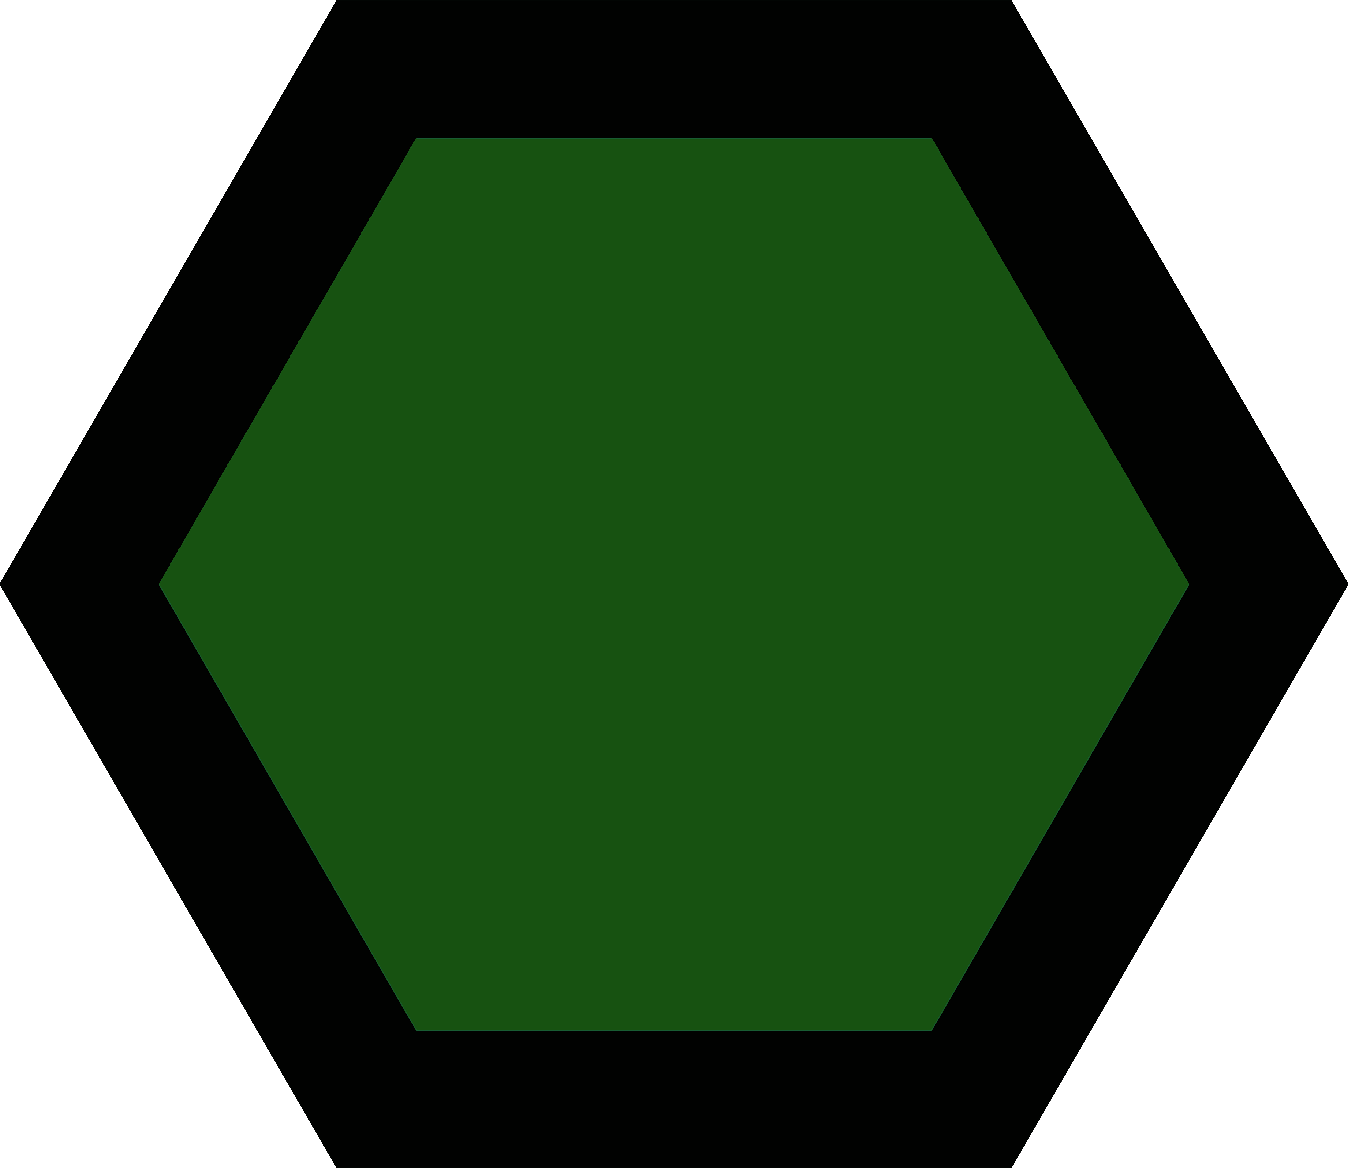
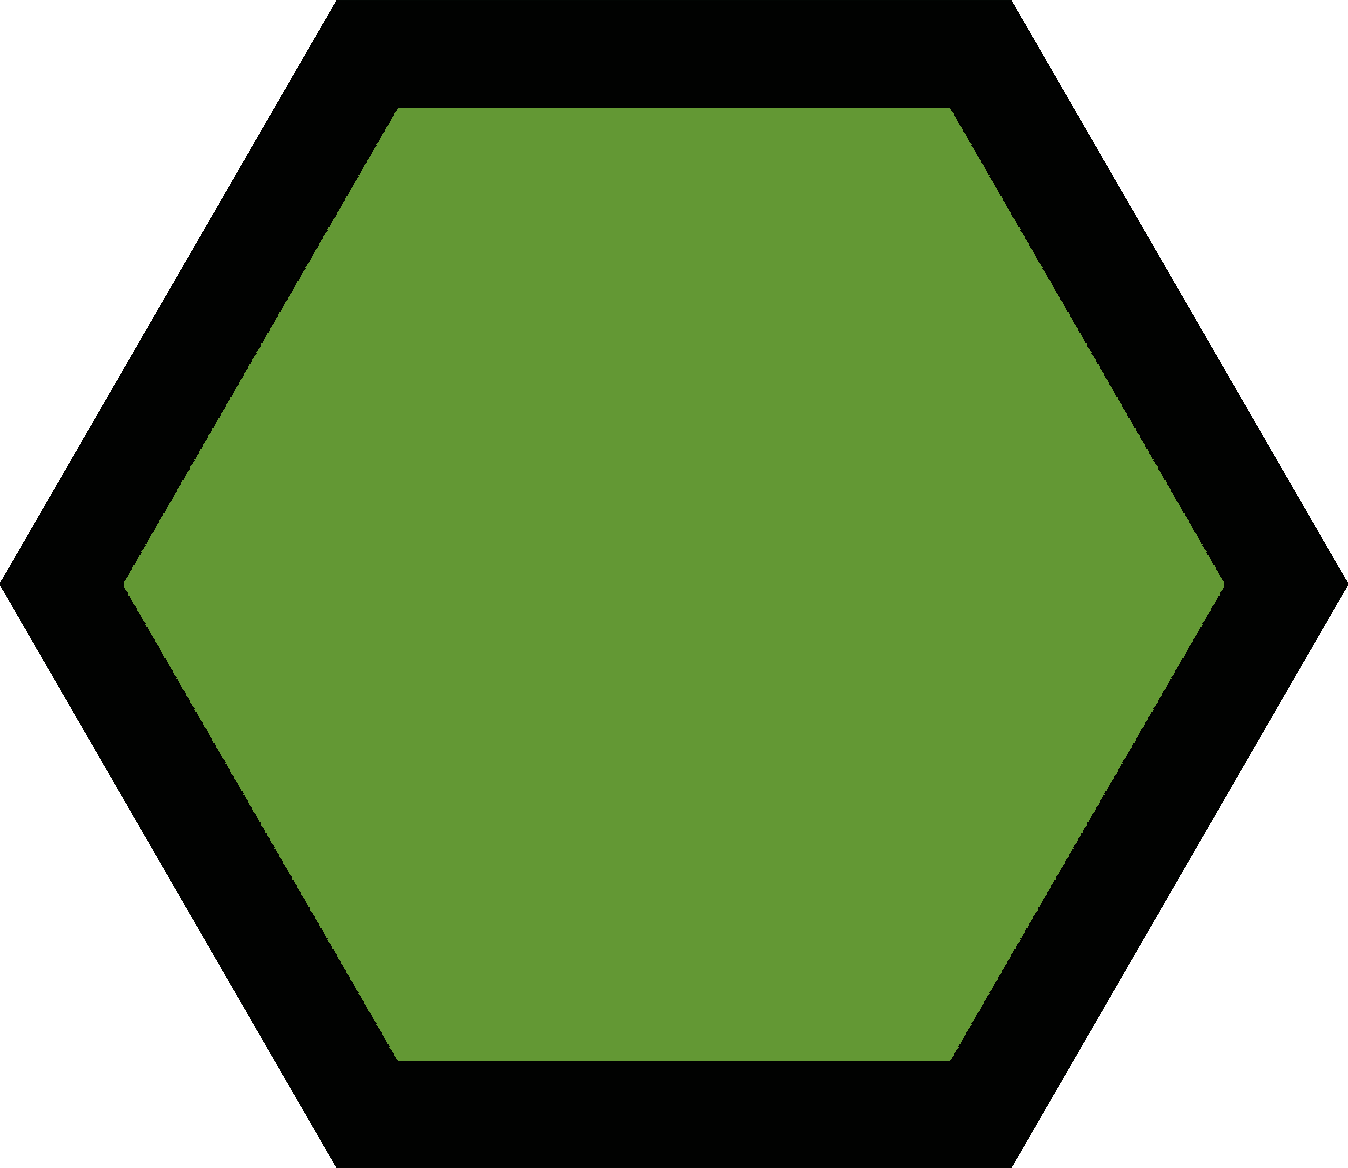
changed colors, added buttons.

diff --git a/src/MapScreen.java b/src/MapScreen.java
@@ -17,21 +17,21 @@ public class MapScreen implements ScreenController {
     private String lastHover = "hex1";
     private String colors[] = {
         "util/img/hexes/blue.png",
-        "util/img/hexes/yellow.png",
+        "util/img/hexes/brown.png",
         "util/img/hexes/green.png",
-        "util/img/hexes/purple.png",
+        "util/img/hexes/pink.png",
     "util/img/hexes/black.png" };
     private String hovers[] = {
         "util/img/hexes/bluehover.png",
-        "util/img/hexes/yellowhover.png",
+        "util/img/hexes/brownhover.png",
         "util/img/hexes/greenhover.png",
-        "util/img/hexes/purplehover.png",
+        "util/img/hexes/pinkhover.png",
     "util/img/hexes/blackhover.png" };
     private String colornames[] = {
         "blue",
-        "yellow",
+        "brown",
         "green",
-        "purple",
+        "pink",
     "black" };
     private String nums[] = {
         "util/img/nums/1.png",
@@ -71,11 +71,20 @@ public class MapScreen implements ScreenController {
         String color = (String) hextable.get(elementID);
         String path = "util/img/hexes/" + color +".png";
         if((path.equals(colors[curPlayer - 1])&& curAction == "Select")){
-
             path = "util/img/hexes/" + color + "click.png";
             replaceImage(elementID,path);
             clicked[0] = elementID;
             curAction = "Attack";
+        }
+        else if((path.equals(colors[curPlayer -1]) && curAction == "Attack")){
+        	System.out.println("FIRST IF");
+        	if(elementID.equals(clicked[0])){
+        		System.out.println("SECOND IF");
+        		path = "util/img/hexes/" + color + ".png";
+                replaceImage(elementID,path);
+                clicked[0] = "";
+                curAction = "Select";
+        	}
         }
         else if((!path.equals(colors[curPlayer -1]) && curAction == "Attack")){
             String[] surrounding = getSurroundingTerritories(clicked[0]);
@@ -95,7 +104,7 @@ public class MapScreen implements ScreenController {
         int startingnum = Integer.parseInt(elementID.substring(3, elementID.length()));
         String[] availibleHexes = new String[6];
 
-        if(startingnum % 8 >1){
+        if(startingnum % mapHeight > 1 && Math.ceil(startingnum/mapHeight) % 2 == 0){
             availibleHexes[0] = "hex" + Integer.toString(startingnum + 1);
             availibleHexes[1] = "hex" + Integer.toString(startingnum - 1);
             availibleHexes[2] = "hex" + Integer.toString(startingnum + mapHeight);
@@ -103,24 +112,32 @@ public class MapScreen implements ScreenController {
             availibleHexes[4] = "hex" + Integer.toString(startingnum - mapHeight);
             availibleHexes[5] = "hex" + Integer.toString(startingnum - mapHeight -1);
         }
-        else if(startingnum % 8 == 1 && Math.ceil(startingnum/8) % 2 == 0){
+        else if(startingnum % mapHeight > 1 && Math.ceil(startingnum/mapHeight) % 2 == 1){
+            availibleHexes[0] = "hex" + Integer.toString(startingnum + 1);
+            availibleHexes[1] = "hex" + Integer.toString(startingnum - 1);
+            availibleHexes[2] = "hex" + Integer.toString(startingnum + mapHeight);
+            availibleHexes[3] = "hex" + Integer.toString(startingnum + mapHeight +1);
+            availibleHexes[4] = "hex" + Integer.toString(startingnum - mapHeight);
+            availibleHexes[5] = "hex" + Integer.toString(startingnum - mapHeight +1);
+        }
+        else if(startingnum % mapHeight == 1 && Math.ceil(startingnum/mapHeight) % 2 == 0){
             availibleHexes[0] = "hex" + Integer.toString(startingnum + 1);
             availibleHexes[1] = "hex" + Integer.toString(startingnum + mapHeight);
-            availibleHexes[2] = "hex" + Integer.toString(startingnum + mapHeight -1);
+            availibleHexes[2] = "hex" + Integer.toString(startingnum + mapHeight +1);
             availibleHexes[3] = "hex" + Integer.toString(startingnum - mapHeight);
             availibleHexes[4] = "hex" + Integer.toString(startingnum - mapHeight -1);
         }
-        else if(startingnum % 8 == 1 && Math.ceil(startingnum/8) % 2 == 1){
+        else if(startingnum % mapHeight == 1 && Math.ceil(startingnum/mapHeight) % 2 == 1){
             availibleHexes[0] = "hex" + Integer.toString(startingnum + 1);
             availibleHexes[1] = "hex" + Integer.toString(startingnum + mapHeight);
             availibleHexes[2] = "hex" + Integer.toString(startingnum - mapHeight);
         }
-        else if(startingnum % 8 == 0 && Math.ceil(startingnum/8) % 2 == 0){
+        else if(startingnum % mapHeight == 0 && Math.ceil(startingnum/mapHeight) % 2 == 0){
             availibleHexes[0] = "hex" + Integer.toString(startingnum - 1);
             availibleHexes[1] = "hex" + Integer.toString(startingnum + mapHeight);
             availibleHexes[2] = "hex" + Integer.toString(startingnum - mapHeight);
         }
-        else if(startingnum % 8 == 0 && Math.ceil(startingnum/8) % 2 == 1){
+        else if(startingnum % mapHeight == 0 && Math.ceil(startingnum/mapHeight) % 2 == 1){
             availibleHexes[0] = "hex" + Integer.toString(startingnum - 1);
             availibleHexes[1] = "hex" + Integer.toString(startingnum + mapHeight);
             availibleHexes[2] = "hex" + Integer.toString(startingnum + mapHeight -1);
@@ -155,7 +172,7 @@ public class MapScreen implements ScreenController {
     }
     private void drawMap(){
         Element map = screen.findElementByName("map");
-        double colWidth = 13.67;
+        double colWidth = 13.9;
         int counter = 1;
         for (int i = 0; i < mapOddCols; i++) {
             int depth = 1;
@@ -171,7 +188,7 @@ public class MapScreen implements ScreenController {
                         height("80");
                         width("95");
                         x(Double.toString(7.5 + rowpos) + "%");
-                        y(Double.toString((curdepth * 10.0) - 2.5) + "%");
+                        y(Double.toString((curdepth * 10.0) +1) + "%");
                         id("hex" + mycounter);
                         interactOnClick("hexClick(hex" + mycounter + ")");
                         interactOnMouseOver("hexMouseOver(hex" + mycounter + ")");
@@ -184,7 +201,7 @@ public class MapScreen implements ScreenController {
                         height("56");
                         width("52");
                         x(Double.toString(7.5 + 2 + rowpos) + "%");
-                        y(Double.toString((curdepth * 10.0) - 2.5 +1.6) + "%");
+                        y(Double.toString((curdepth * 10.0) +1 +1.6) + "%");
                         id("hexnum" + mycounter);
                         interactOnClick("hexClick(hex" + mycounter + ")");
                     }
@@ -199,7 +216,7 @@ public class MapScreen implements ScreenController {
                 depth++;
             }
         }
-        colWidth = 13.7;
+        colWidth = 13.9;
         counter = 9;
         for (int i = 0; i < mapEvenCols; i++) {
             int depth = 1;
@@ -215,7 +232,7 @@ public class MapScreen implements ScreenController {
                         height("80");
                         width("95");
                         x(Double.toString(16.8 - 2.5 + rowpos) + "%");
-                        y(Double.toString((curdepth * 10.0) + 2.5) + "%");
+                        y(Double.toString((curdepth * 10.0) + 6) + "%");
                         id("hex" + mycounter);
                         interactOnClick("hexClick(hex" + mycounter + ")");
                         interactOnMouseOver("hexMouseOver(hex" + mycounter + ")");
@@ -228,7 +245,7 @@ public class MapScreen implements ScreenController {
                         height("56");
                         width("52");
                         x(Double.toString(16.8 - 2.5 + 2 + rowpos) + "%");
-                        y(Double.toString((curdepth * 10.0) + 2.50 +1.6) + "%");
+                        y(Double.toString((curdepth * 10.0) + 6 +1.6) + "%");
                         id("hexnum" + mycounter);
                         interactOnClick("hexClick(hex" + mycounter + ")");
                     }
@@ -308,4 +325,9 @@ public class MapScreen implements ScreenController {
         image.getRenderer(ImageRenderer.class).setImage(newImage);
     }
     
+    public void nextButtonClick(){
+    	System.out.println("next button");
+    }
+    
+   
 }
